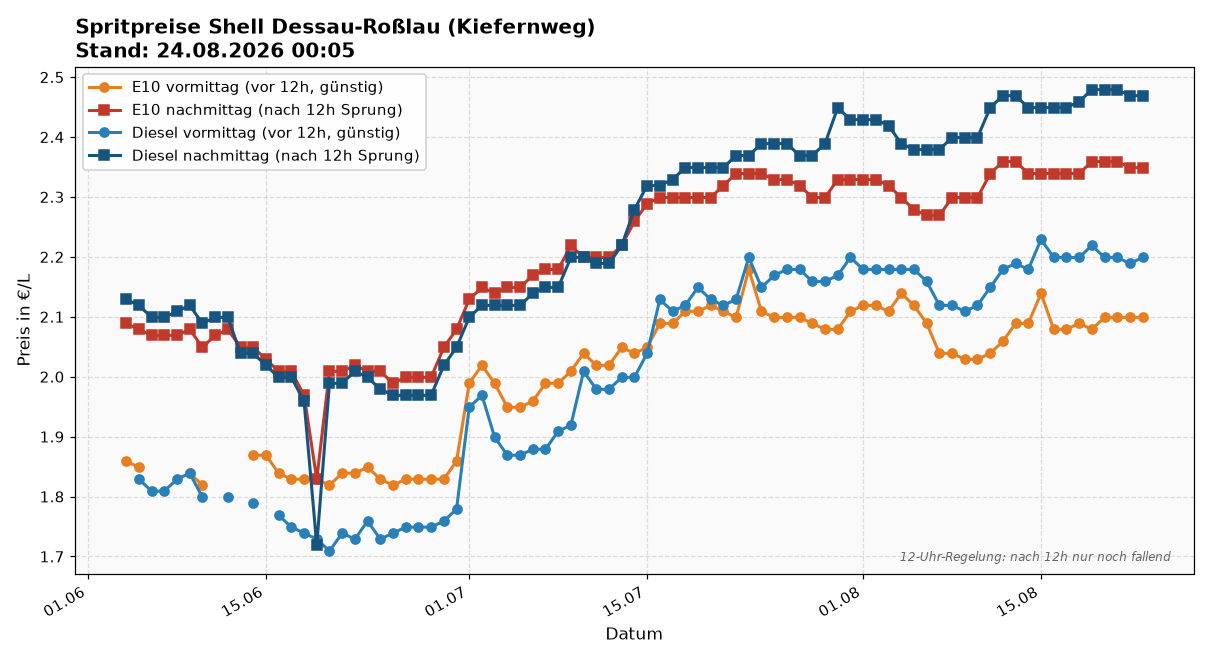
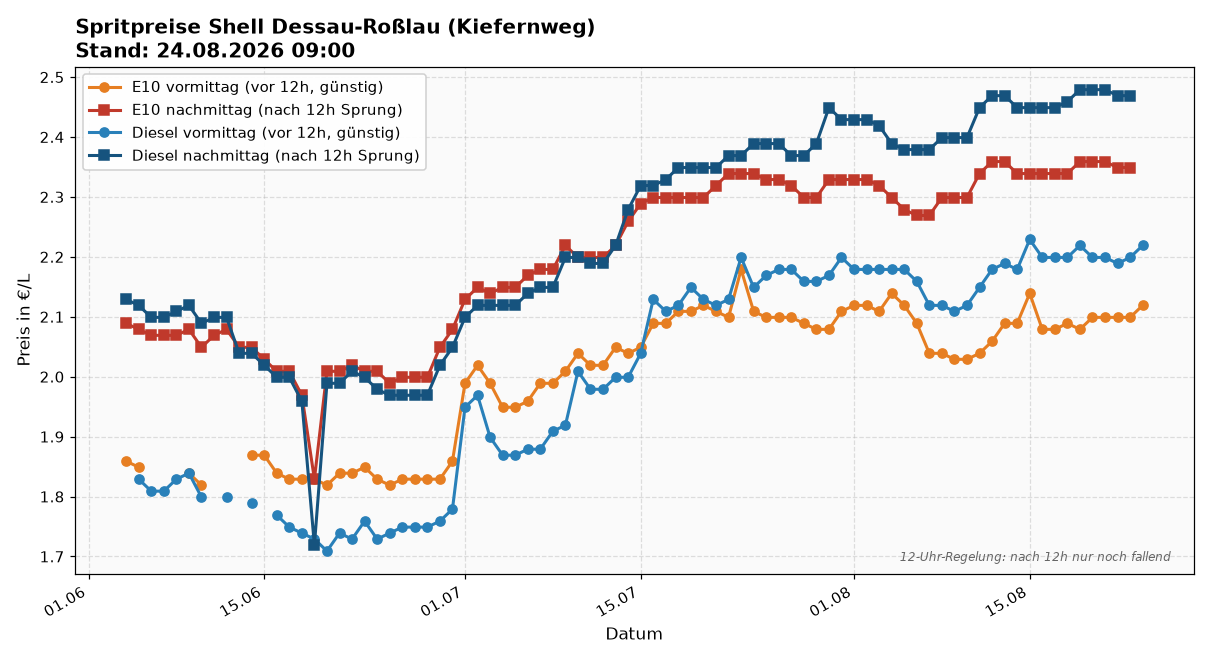
update: spritpreise 2026-08-24 09:00

diff --git a/index.html b/index.html
@@ -19,17 +19,17 @@
 </head>
 <body>
 <h1>🛢 Spritpreise Shell Dessau-Roßlau (Kiefernweg)</h1>
-<div class="sub">Source: Tankerkönig · Stand: 24.08.2026 00:05</div>
+<div class="sub">Source: Tankerkönig · Stand: 24.08.2026 09:00</div>
 
 <img src="latest.png" alt="Preisverlauf">
 
 <div class="latest">
   <strong>Heute (2026-08-24)</strong>
-  <div style="color:#888;font-style:italic;margin-bottom:0.5em;">Noch keine Messung heute — cron läuft 09:00 + 12:10.</div>
+  
   <table>
-    <tr><td>E10 vormittag</td><td class="price">— €</td></tr>
+    <tr><td>E10 vormittag</td><td class="price">2.119 €</td></tr>
     <tr><td>E10 nachmittag</td><td class="price">— €</td></tr>
-    <tr><td>Diesel vormittag</td><td class="price">— €</td></tr>
+    <tr><td>Diesel vormittag</td><td class="price">2.219 €</td></tr>
     <tr><td>Diesel nachmittag</td><td class="price">— €</td></tr>
   </table>
 </div>
